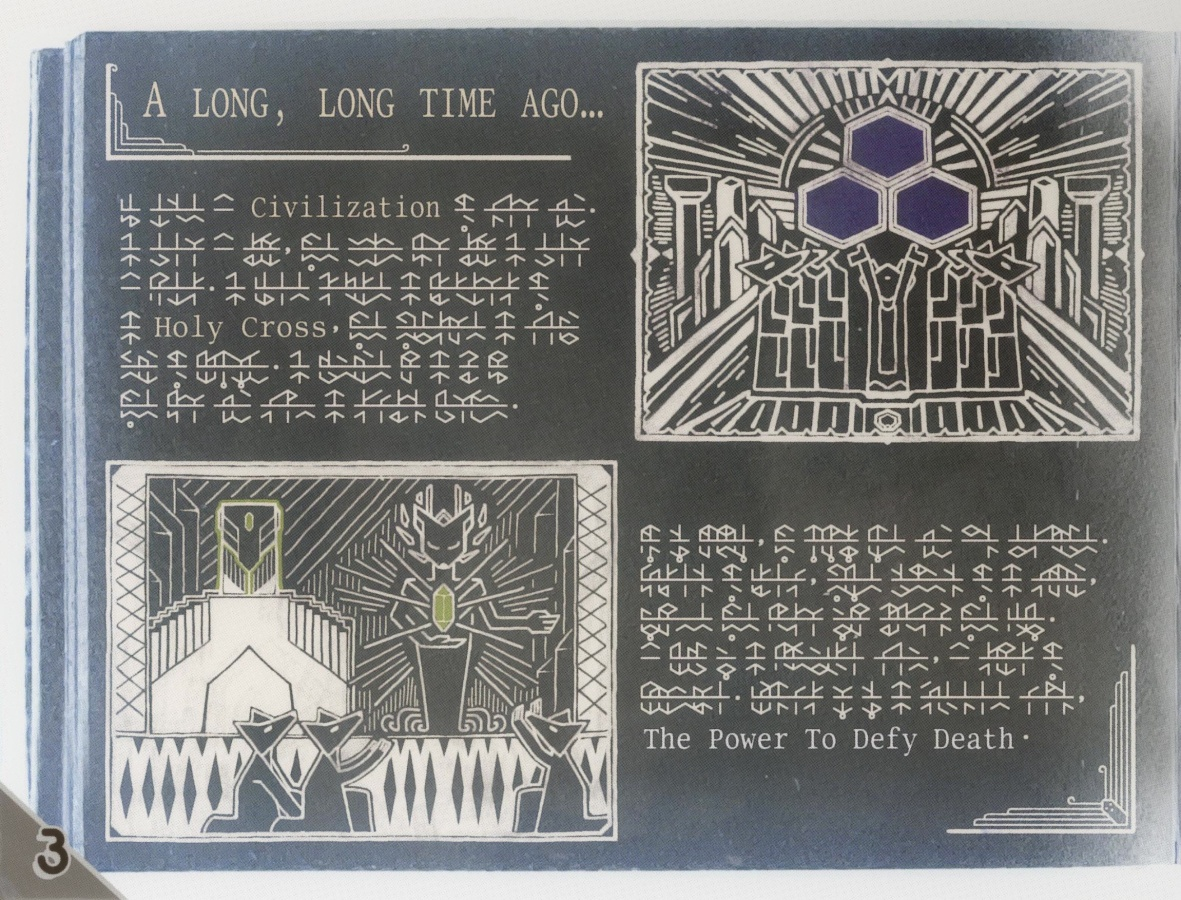
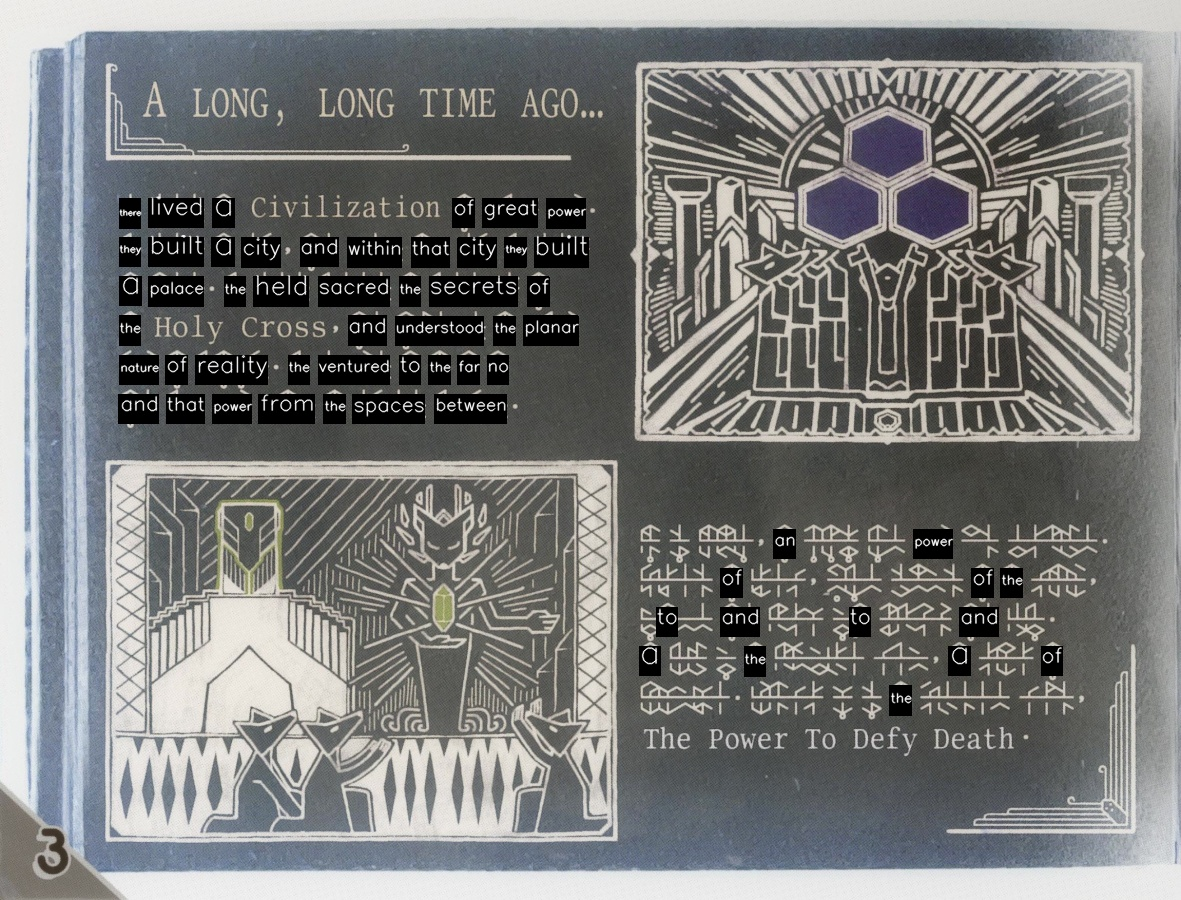
improved detection + new dict entries

diff --git a/include/runedetector.h b/include/runedetector.h
@@ -49,7 +49,7 @@ public:
 	bool load_rune_folder(const fs::path& dict_folder);
     bool register_word_image(const fs::path& word_image);
 	//bool detect_runes(const fs::path& image_path, std::vector<Rune>& detected_runes);
-    bool detect_words(cv::Mat& image, std::vector<Word>& detected_words, int adaptative_cycles = 0, bool debug_mode = false, bool useGeneratedRunes=false);
+    bool detect_words(cv::Mat& image, std::vector<Word>& detected_words, int adaptative_cycles = 0, bool debug_mode = false, bool useGeneratedRunes = false, bool overwriteOnDetection = true);
     void displayMatProperties(const cv::Mat& mat, const std::string& name = "Mat");
     bool generate_scale_factors(const cv::Mat& image, const cv::Mat& pattern, std::vector<double>& scale_factors);
     cv::Mat get_image_lines(const cv::Mat& src);

diff --git a/src/main.cpp b/src/main.cpp
@@ -103,12 +103,14 @@ int main(int argc, char* argv[]) {
     if (fs::path(input_file).extension() == ".jpg") {
 
         RuneDictionary rune_dictionary(DICTIONARY_ENG);
+        rune_dictionary.save(DICTIONARY_ENG);
+        rune_dictionary.generate_images(RUNES_FOLDER);
         RuneDetector rune_detector(&rune_dictionary);
         rune_detector.load_rune_folder(RUNES_FOLDER);
 
         auto output_file = fs::path(input_file).parent_path() / (fs::path(input_file).stem().string() + std::string("_decrypted") + fs::path(input_file).extension().string());
 
-        int detection_result = rune_detector.image_detection(input_file, output_file);
+        int detection_result = rune_detector.image_detection(input_file, output_file, 7, false, false);
     }
 
     return detection_result;
